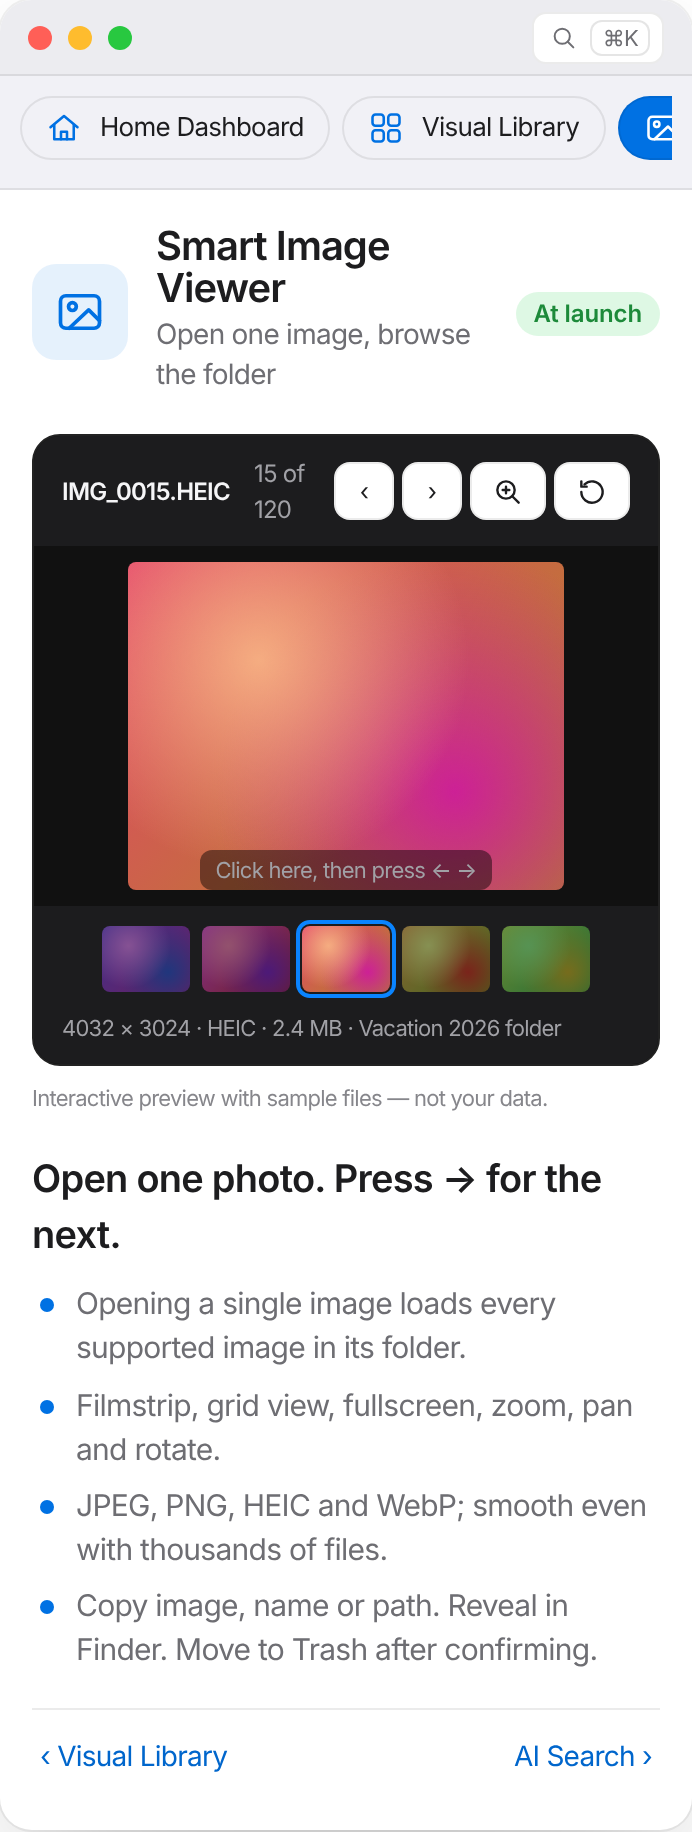
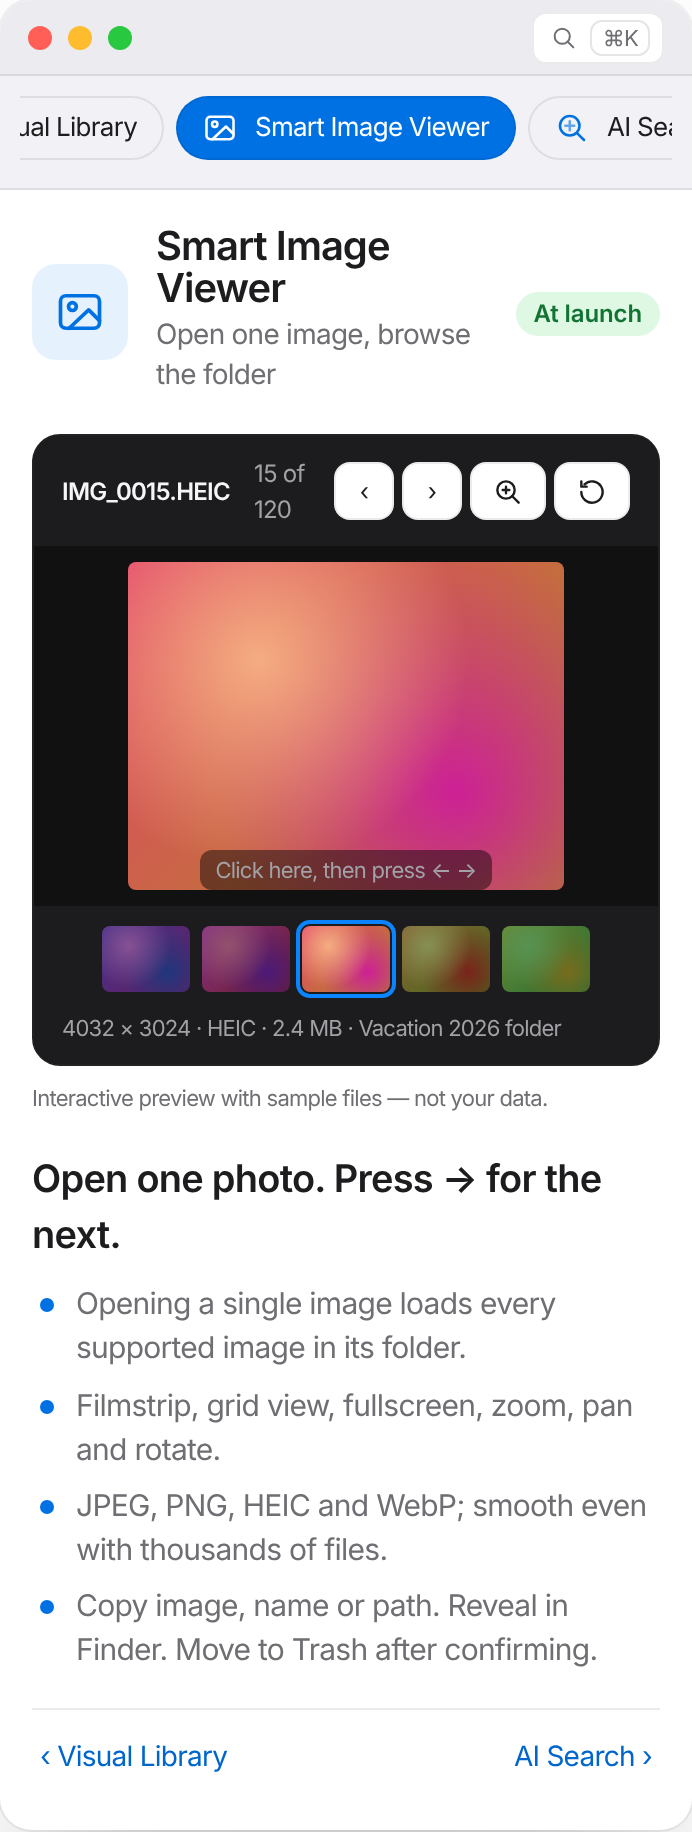
fix: final-review findings — keyboard path through filter, no live pane, pausable search examples, AA contrast, honest labels, roadmap links, mobile pill visibility
Claude-Session: https://claude.ai/code/session_01XtVGGjRtyMHHJ3rZ5SkQtB

Changed region(s): [[0.0303, 0.0311, 0.8497, 0.0933], [0.8801, 0.0311, 0.9711, 0.0933]]

diff --git a/styles.css b/styles.css
@@ -6,13 +6,14 @@
   --bg-dark: #000000;
   --text: #1d1d1f;
   --text-2: #6e6e73;
-  --text-3: #86868b;
+  --text-3: #6e6e73;
   --line: rgba(0, 0, 0, 0.1);
   --accent: #0071e3;
   --accent-hover: #0077ed;
   --accent-text: #0066cc;
+  --accent-btn: #0071e3;
   --accent-soft: rgba(0, 113, 227, 0.1);
-  --good: #1d8a3a;
+  --good: #137333;
   --warn: #b25000;
   --mark: rgba(255, 204, 0, 0.55);
   --nav-bg: rgba(255, 255, 255, 0.78);
@@ -43,11 +44,11 @@
     --bg-elev: #1c1c1e;
     --text: #f5f5f7;
     --text-2: #a1a1a6;
-    --text-3: #86868b;
+    --text-3: #98989d;
     --line: rgba(255, 255, 255, 0.14);
     --accent: #0a84ff;
     --accent-hover: #409cff;
-    --accent-text: #2997ff;
+    --accent-text: #4aa6ff;
     --accent-soft: rgba(10, 132, 255, 0.18);
     --good: #30d158;
     --warn: #ff9f0a;
@@ -107,11 +108,11 @@ kbd {
 /* ============ Buttons ============ */
 .btn {
   display: inline-flex; align-items: center; justify-content: center; gap: 6px;
-  background: var(--accent); color: #fff; border: 0; border-radius: 980px;
+  background: var(--accent-btn); color: #fff; border: 0; border-radius: 980px;
   padding: 12px 22px; font-size: 17px; font-weight: 400; line-height: 1.2;
   transition: background .2s ease;
 }
-.btn:hover { background: var(--accent-hover); text-decoration: none; }
+.btn:hover { background: #0062c4; text-decoration: none; }
 .btn-small { padding: 5px 12px; font-size: 12px; }
 .btn-ghost { background: transparent; color: var(--accent-text); border: 1px solid currentColor; }
 .btn-ghost:hover { background: var(--accent-soft); }
@@ -173,7 +174,7 @@ kbd {
 .mac-side b { font-size: 11px; color: var(--text-3); font-weight: 600; margin: 10px 8px 4px; }
 .mac-side b:first-child { margin-top: 0; }
 .mac-side span { padding: 5px 8px; border-radius: 6px; }
-.mac-side span.on { background: var(--accent); color: #fff; }
+.mac-side span.on { background: var(--accent-btn); color: #fff; }
 .mac-main { padding: 18px; display: flex; flex-direction: column; gap: 16px; min-width: 0; }
 .hero-tabs { display: flex; gap: 6px; font-size: 12px; flex-wrap: wrap; }
 .hero-tabs span { padding: 4px 10px; border-radius: 980px; background: var(--bg-alt); color: var(--text-2); }
@@ -208,7 +209,7 @@ kbd {
 .badge { display: inline-block; font-size: 12px; font-weight: 600; line-height: 1; padding: 5px 9px; border-radius: 980px; white-space: nowrap; letter-spacing: -0.005em; }
 .badge-launch { background: rgba(48, 209, 88, 0.16); color: var(--good); }
 .badge-soon { background: var(--accent-soft); color: var(--accent-text); }
-.badge-later { background: rgba(191, 90, 242, 0.15); color: #a24bd0; }
+.badge-later { background: rgba(191, 90, 242, 0.15); color: #8139a8; }
 @media (prefers-color-scheme: dark) { .badge-later { color: #da8fff; } }
 
 /* ============ Feature Explorer ============ */
@@ -226,7 +227,7 @@ kbd {
 .ex-filter input {
   width: 100%; border: 1px solid var(--win-line); background: var(--win-bg); border-radius: 8px; padding: 6px 10px; font-size: 13px;
 }
-.ex-tablist { display: flex; flex-direction: column; margin-top: 6px; }
+.ex-tablist { display: flex; flex-direction: column; margin-top: 6px; position: relative; }
 .ex-group { display: flex; flex-direction: column; gap: 1px; }
 .ex-group[hidden] { display: none; }
 .ex-group-label { font-size: 11px; font-weight: 600; color: var(--text-3); margin: 12px 8px 4px; }
@@ -236,7 +237,7 @@ kbd {
 }
 .ex-tablist [role=tab][hidden] { display: none; }
 .ex-tablist [role=tab]:hover { background: rgba(127, 127, 127, 0.12); }
-.ex-tablist [role=tab][aria-selected=true] { background: var(--accent); color: #fff; }
+.ex-tablist [role=tab][aria-selected=true] { background: var(--accent-btn); color: #fff; }
 .ex-tab-icon { display: inline-flex; color: var(--accent); flex: none; }
 [aria-selected=true] > .ex-tab-icon { color: #fff; }
 .ex-tab-text { flex: 1; min-width: 0; }
@@ -285,7 +286,7 @@ kbd {
 .palette-input input { flex: 1; min-width: 0; border: 0; background: transparent; font-size: 19px; outline: none; color: var(--text); }
 #palette-list { list-style: none; margin: 0; padding: 6px; max-height: 50vh; overflow-y: auto; }
 #palette-list li { display: grid; grid-template-columns: auto auto 1fr auto; align-items: center; gap: 10px; padding: 9px 10px; border-radius: 9px; cursor: pointer; font-size: 14px; }
-#palette-list li[aria-selected=true] { background: var(--accent); color: #fff; }
+#palette-list li[aria-selected=true] { background: var(--accent-btn); color: #fff; }
 #palette-list li[aria-selected=true] .ex-tab-icon, #palette-list li[aria-selected=true] .pal-short { color: #fff; }
 #palette-list li[aria-selected=true] .badge { background: rgba(255,255,255,.22); color: #fff; }
 .pal-title { font-weight: 600; white-space: nowrap; }
@@ -310,7 +311,7 @@ kbd {
 .d-searchbox, .d-qs-input { display: flex; align-items: center; gap: 8px; background: var(--win-bg); border: 1px solid var(--win-line); border-radius: 10px; padding: 8px 12px; color: var(--text-2); }
 .d-searchbox output { color: var(--text); font-size: 15px; flex: 1; min-width: 0; }
 .d-qs-input input { flex: 1; min-width: 0; border: 0; background: transparent; outline: none; font-size: 14px; color: var(--text); }
-mark { background: var(--mark); color: inherit; border-radius: 3px; padding: 0 2px; }
+mark { background: var(--mark); color: var(--text); border-radius: 3px; padding: 0 2px; }
 .ex-demo .ph { display: block; border: 0; padding: 0; position: relative; }
 
 /* home */
@@ -579,7 +580,7 @@ mark { background: var(--mark); color: inherit; border-radius: 3px; padding: 0 2
 .pricing-grid { display: grid; grid-template-columns: repeat(2, minmax(0, 1fr)); gap: 20px; max-width: 860px; margin: 0 auto; }
 .plan { background: var(--bg-alt); border-radius: var(--radius-lg); padding: 36px; display: flex; flex-direction: column; gap: 12px; position: relative; }
 .plan-pro { background: var(--bg-elev); box-shadow: 0 0 0 2px var(--accent), 0 30px 60px -30px rgba(0, 113, 227, .45); }
-.plan-flag { position: absolute; top: -12px; left: 36px; background: var(--accent); color: #fff; font-size: 12px; font-weight: 600; padding: 4px 10px; border-radius: 980px; }
+.plan-flag { position: absolute; top: -12px; left: 36px; background: var(--accent-btn); color: #fff; font-size: 12px; font-weight: 600; padding: 4px 10px; border-radius: 980px; }
 .plan h3 { font-size: 28px; }
 .plan-price { font-size: 40px; font-weight: 600; letter-spacing: -0.03em; }
 .plan-price-soon { font-size: 28px; color: var(--accent-text); }
@@ -620,3 +621,7 @@ mark { background: var(--mark); color: inherit; border-radius: 3px; padding: 0 2
 .footer-brand { display: flex; align-items: center; gap: 8px; color: var(--text); font-size: 13px; }
 .footer nav { display: flex; flex-wrap: wrap; gap: 6px 22px; padding-bottom: 14px; border-bottom: 1px solid var(--line); }
 .footer nav a { color: var(--text-2); }
+
+.d-search-top { display: flex; gap: 8px; align-items: stretch; }
+.d-search-top .d-searchbox { flex: 1; min-width: 0; }
+.ex-demo .d-cycle { white-space: nowrap; }

diff --git a/js/explorer.js b/js/explorer.js
@@ -43,7 +43,8 @@ function render(root) {
           <div class="ex-tablist" role="tablist" aria-label="MacMate features" aria-orientation="vertical">${sidebarHtml()}</div>
           <p class="ex-nomatch" hidden>No features match</p>
         </aside>
-        <section class="ex-pane" id="ex-pane" role="tabpanel" tabindex="-1" aria-live="polite">
+        <p class="visually-hidden" role="status" id="ex-status"></p>
+        <section class="ex-pane" id="ex-pane" role="tabpanel" tabindex="-1">
           <header class="ex-pane-head">
             <span class="ex-pane-icon"></span>
             <div class="ex-pane-titles"><h3></h3><p class="ex-pane-short"></p></div>
@@ -69,6 +70,12 @@ export function selectFeature(id, { focus = false, updateHash = true } = {}) {
   const f = byId.get(id) || byId.get(DEFAULT_ID);
   const { root } = state;
   if (!root) return;
+  const target = root.querySelector('#tab-' + f.id);
+  if (target.hidden) {
+    const input = root.querySelector('.ex-filter input');
+    input.value = '';
+    input.dispatchEvent(new Event('input'));
+  }
   if (state.current !== f.id) {
     if (typeof state.cleanup === 'function') state.cleanup();
     state.cleanup = null;
@@ -98,6 +105,9 @@ export function selectFeature(id, { focus = false, updateHash = true } = {}) {
     pb.dataset.target = prev.id;
     nb.dataset.target = next.id;
 
+    root.querySelector('#ex-status').textContent = 'Showing ' + f.title;
+    revealTab(root.querySelector('#tab-' + f.id));
+
     const demoEl = pane.querySelector('.ex-demo');
     demoEl.innerHTML = '';
     demoEl.className = 'ex-demo demo-' + f.id;
@@ -105,10 +115,26 @@ export function selectFeature(id, { focus = false, updateHash = true } = {}) {
     if (demo) state.cleanup = demo(demoEl) || null;
   }
   if (updateHash && location.hash !== HASH_PREFIX + f.id) history.replaceState(null, '', HASH_PREFIX + f.id);
-  if (focus) root.querySelector('#tab-' + f.id).focus();
+  syncTabStops();
+  if (focus) target.focus();
 }
 
 function visibleTabs() { return state.tabs.filter((t) => !t.hidden); }
+
+// Keep exactly one reachable tab: the selected one if visible, else the first visible match.
+function syncTabStops() {
+  const vis = visibleTabs();
+  const sel = vis.find((t) => t.getAttribute('aria-selected') === 'true');
+  const stop = sel || vis[0];
+  for (const t of state.tabs) t.tabIndex = t === stop ? 0 : -1;
+}
+
+// Scroll the horizontal pill bar (phones) so the tab is visible, without scrolling the page.
+function revealTab(tab) {
+  const list = tab.closest('[role=tablist]');
+  if (list.scrollWidth <= list.clientWidth) return;
+  list.scrollLeft = tab.offsetLeft - list.clientWidth / 2 + tab.offsetWidth / 2;
+}
 
 function onTabKey(e) {
   const tabs = visibleTabs();
@@ -138,6 +164,14 @@ function initFilter(root) {
     }
     root.querySelectorAll('.ex-group').forEach((g) => { g.hidden = !g.querySelector('[role=tab]:not([hidden])'); });
     none.hidden = shown > 0;
+    syncTabStops();
+  });
+  input.addEventListener('keydown', (e) => {
+    if (e.key !== 'Enter' && e.key !== 'ArrowDown') return;
+    const first = visibleTabs()[0];
+    if (!first) return;
+    e.preventDefault();
+    selectFeature(first.dataset.id, { focus: true });
   });
 }
 

diff --git a/js/demos.js b/js/demos.js
@@ -160,11 +160,14 @@ function search(el) {
   let idx = 0, timer = null;
   el.innerHTML = `
     <div class="d-search">
-      <label class="d-searchbox">${svg('<circle cx="10.5" cy="10.5" r="6.5"/><path d="m20 20-4.8-4.8"/>')}<span class="visually-hidden">Example search</span><output class="d-q"></output></label>
+      <div class="d-search-top">
+        <label class="d-searchbox">${svg('<circle cx="10.5" cy="10.5" r="6.5"/><path d="m20 20-4.8-4.8"/>')}<span class="visually-hidden">Example search</span><output class="d-q"></output></label>
+        <button type="button" class="d-cycle" aria-pressed="false">Pause examples</button>
+      </div>
       <div class="d-chips" role="group" aria-label="Try an example">${QUERIES.map((x, i) => `<button type="button" data-i="${i}">${esc(x.q)}</button>`).join('')}</div>
       <p class="d-label">Understood as</p>
       <div class="d-filters"></div>
-      <p class="d-label">Real files from your index</p>
+      <p class="d-label">Matching files</p>
       <ul class="d-results"></ul>
     </div>`;
   const draw = () => {
@@ -175,11 +178,30 @@ function search(el) {
     el.querySelector('.d-results').innerHTML = x.results.map(([n, p, s]) => `
       <li><span class="d-res-icon">${svg(ICON.doc, 18)}</span><div><b>${esc(n)}</b><small>${esc(p)}</small><p>${s}</p></div></li>`).join('');
   };
-  const stop = () => { clearInterval(timer); timer = null; };
-  bindAll(el, '.d-chips button', 'click', (e) => { stop(); idx = +e.currentTarget.dataset.i; draw(); });
+  // Auto-cycles through examples only while visible, not paused, and not focused/hovered.
+  const cycleBtn = el.querySelector('.d-cycle');
+  let paused = reduceMotion(), visible = true, engaged = false;
+  const tick = () => { idx = (idx + 1) % QUERIES.length; draw(); };
+  const update = () => {
+    const run = !paused && visible && !engaged;
+    if (run && !timer) timer = setInterval(tick, 4500);
+    if (!run && timer) { clearInterval(timer); timer = null; }
+    cycleBtn.setAttribute('aria-pressed', String(paused));
+    cycleBtn.textContent = paused ? 'Play examples' : 'Pause examples';
+  };
+  const setPaused = (v) => { paused = v; update(); };
+  cycleBtn.addEventListener('click', () => setPaused(!paused));
+  bindAll(el, '.d-chips button', 'click', (e) => { idx = +e.currentTarget.dataset.i; draw(); setPaused(true); });
+  const engage = (v) => () => { engaged = v; update(); };
+  el.addEventListener('focusin', engage(true));
+  el.addEventListener('focusout', engage(false));
+  el.addEventListener('mouseenter', engage(true));
+  el.addEventListener('mouseleave', engage(false));
+  const io = 'IntersectionObserver' in window ? new IntersectionObserver(([e]) => { visible = e.isIntersecting; update(); }) : null;
+  if (io) io.observe(el);
   draw();
-  if (!reduceMotion()) timer = setInterval(() => { idx = (idx + 1) % QUERIES.length; draw(); }, 4500);
-  return stop;
+  update();
+  return () => { clearInterval(timer); timer = null; if (io) io.disconnect(); };
 }
 
 /* ---------------- Text in Images (OCR) ---------------- */

diff --git a/js/sections.js b/js/sections.js
@@ -32,9 +32,17 @@ export function initRoadmap(grid) {
       <article class="roadmap-col reveal">
         <p class="roadmap-rel">${r.id === 'At launch' ? 'At launch' : r.id}</p>
         <h3>${r.name}</h3>
-        <ul>${items.map((f) => `<li><a href="#explore/${f.id}">${iconSvg(f.icon, 16)}<span>${f.title}</span></a></li>`).join('')}</ul>
+        <ul>${items.map((f) => `<li><a href="#explore/${f.id}" data-id="${f.id}">${iconSvg(f.icon, 16)}<span>${f.title}</span></a></li>`).join('')}</ul>
       </article>`;
   }).join('');
+  grid.addEventListener('click', (e) => {
+    const a = e.target.closest('a[data-id]');
+    if (!a) return;
+    e.preventDefault();
+    selectFeature(a.dataset.id);
+    document.getElementById('explore').scrollIntoView({ block: 'start' });
+    document.getElementById('tab-' + a.dataset.id).focus({ preventScroll: true });
+  });
 }
 
 export function initWaitlist(form, status) {

diff --git a/index.html b/index.html
@@ -136,7 +136,7 @@
         </ol>
         <div class="trust-notes reveal">
           <p><b>Grounded results.</b> Search answers come from your real index — the AI never invents files.</p>
-          <p><b>Graceful without AI.</b> On Macs without Apple Intelligence, search, storage and cleanup work fully.</p>
+          <p><b>Graceful without AI.</b> On Macs without Apple Intelligence, file search, text-in-images search, storage and cleanup keep working.</p>
           <p><b>No shell commands.</b> Model output is never run as a command.</p>
         </div>
       </div>
